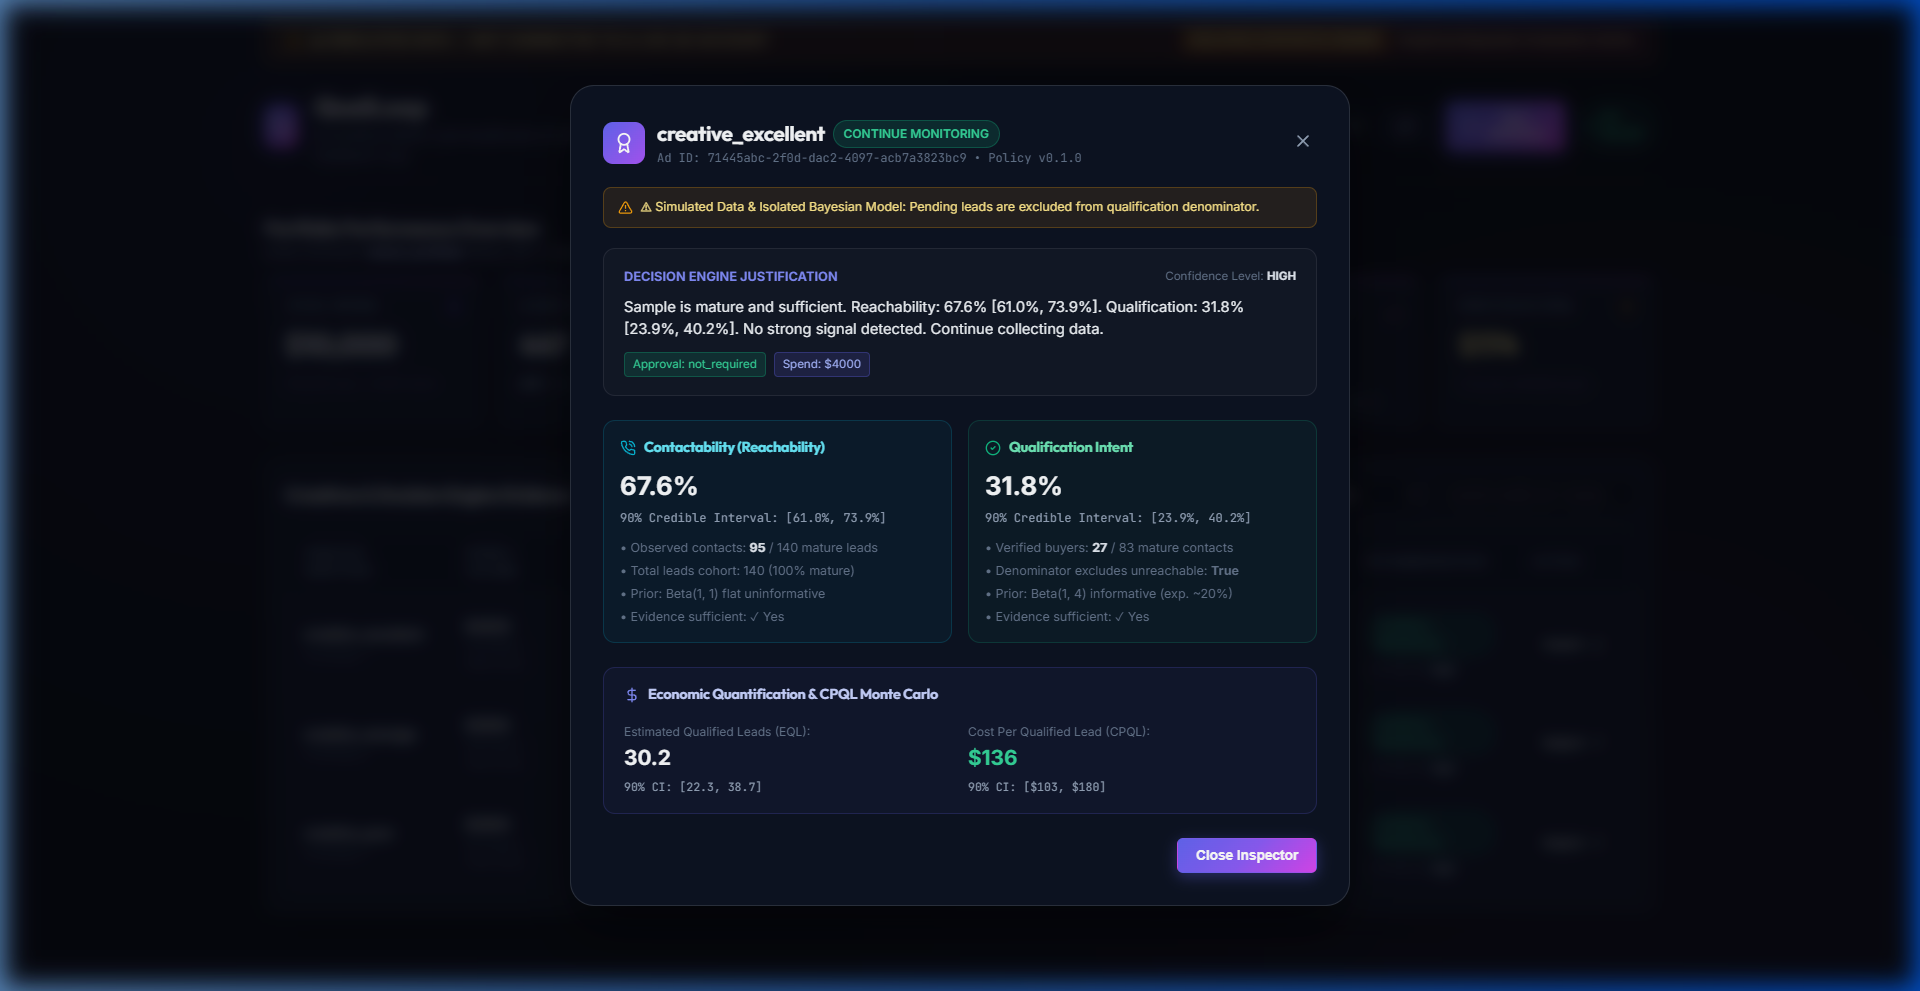
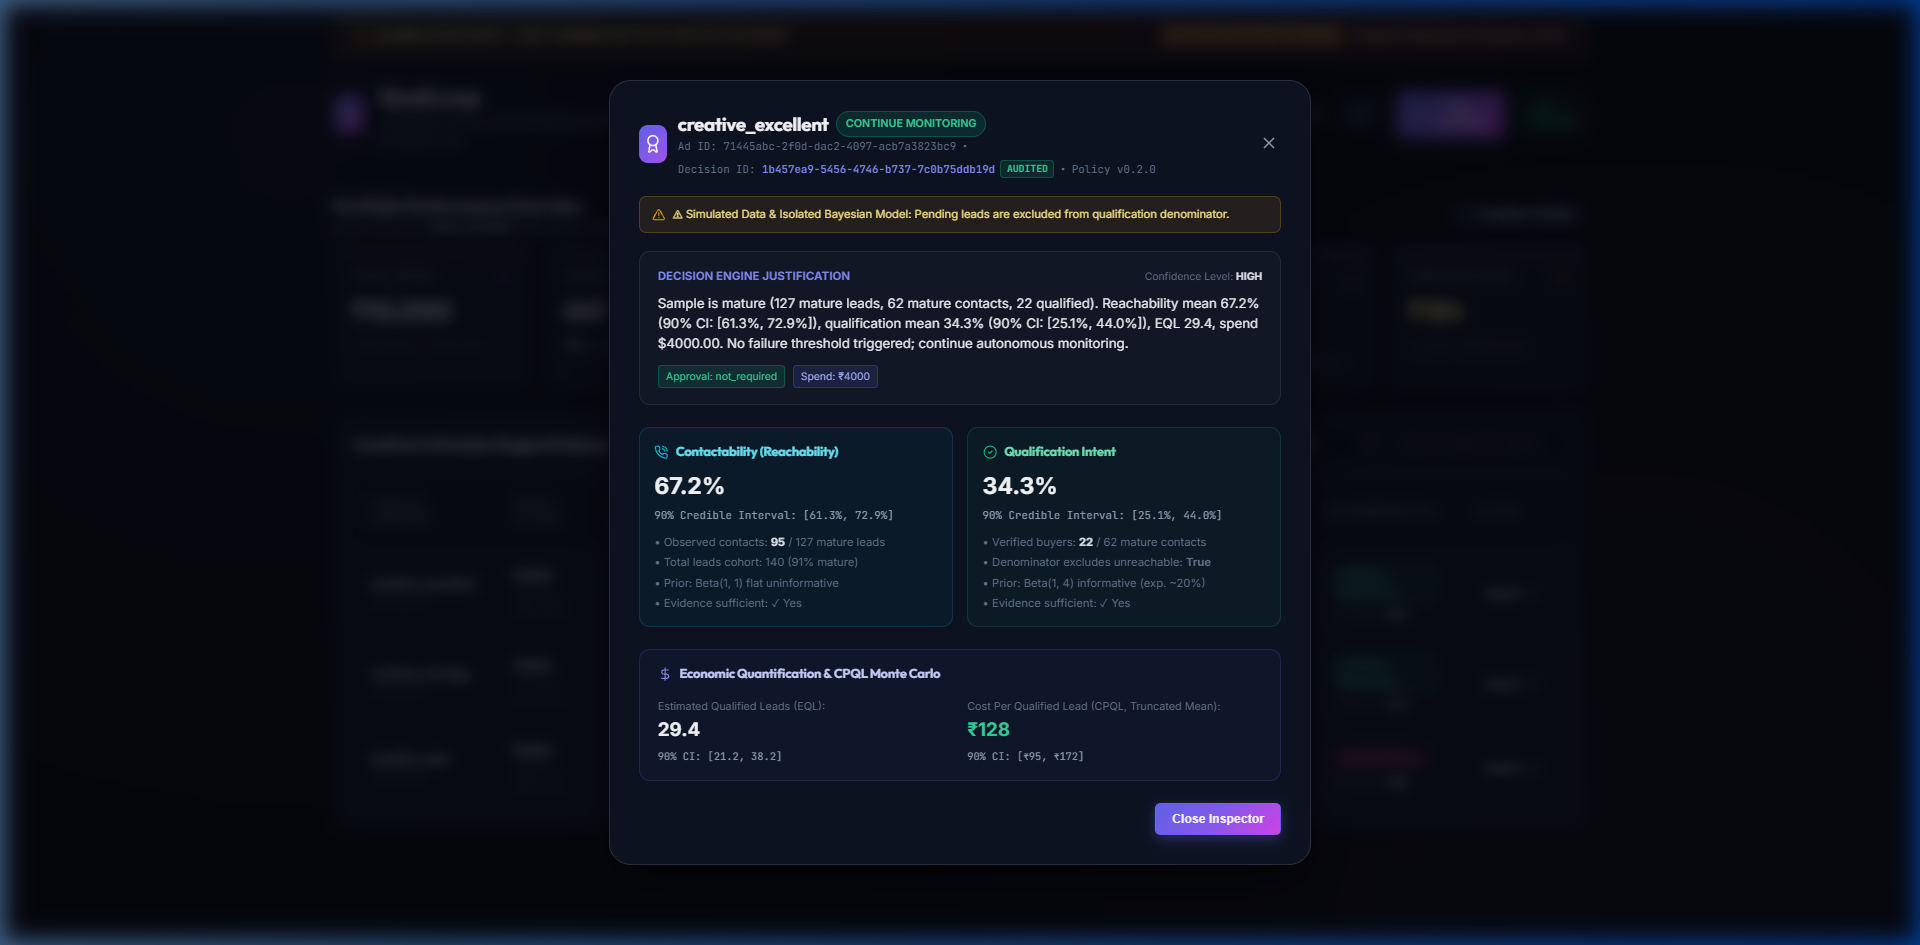
docs(media): regenerate current build dashboard screenshots and update video link placeholder

diff --git a/frontend/src/components/AdDetailModal.tsx b/frontend/src/components/AdDetailModal.tsx
@@ -138,7 +138,7 @@ export const AdDetailModal: React.FC<AdDetailModalProps> = ({ adAnalysis, onClos
               Approval: {dec.approval_status}
             </span>
             <span style={{ fontSize: '0.72rem', background: 'rgba(99, 102, 241, 0.15)', color: '#a5b4fc', padding: '3px 8px', borderRadius: '4px', border: '1px solid rgba(99, 102, 241, 0.3)' }}>
-              Spend: ${adv.spend.toFixed(0)}
+              Spend: ₹{adv.spend.toFixed(0)}
             </span>
           </div>
         </div>
@@ -217,12 +217,12 @@ export const AdDetailModal: React.FC<AdDetailModalProps> = ({ adAnalysis, onClos
             <div>
               <span style={{ fontSize: '0.75rem', color: 'var(--text-dim)' }}>Cost Per Qualified Lead (CPQL, Truncated Mean):</span>
               <div style={{ fontSize: '1.3rem', fontWeight: 700, color: est.cpql_unstable ? '#f59e0b' : '#34d399' }}>
-                {est.cpql_unstable || est.cpql_mean === null ? 'Unstable' : `$${est.cpql_mean.toFixed(0)}`}
+                {est.cpql_unstable || est.cpql_mean === null ? 'Unstable' : `₹${est.cpql_mean.toFixed(0)}`}
               </div>
               <span className="mono" style={{ fontSize: '0.72rem', color: 'var(--text-muted)' }}>
                 {est.cpql_unstable
                   ? `Zero-EQL draw fraction: ${(est.zero_eql_fraction * 100).toFixed(0)}%`
-                  : `90% CI: [$${est.cpql_ci_low?.toFixed(0)}, $${est.cpql_ci_high?.toFixed(0)}]`}
+                  : `90% CI: [₹${est.cpql_ci_low?.toFixed(0)}, ₹${est.cpql_ci_high?.toFixed(0)}]`}
               </span>
             </div>
           </div>

diff --git a/frontend/src/components/CampaignAdTable.tsx b/frontend/src/components/CampaignAdTable.tsx
@@ -166,7 +166,7 @@ export const CampaignAdTable: React.FC<CampaignAdTableProps> = ({ campaigns, onS
 
                     <td>
                       <div style={{ display: 'flex', flexDirection: 'column', gap: '2px' }}>
-                        <span style={{ fontWeight: 600 }}>${adv.spend.toFixed(0)}</span>
+                        <span style={{ fontWeight: 600 }}>₹{adv.spend.toFixed(0)}</span>
                         <span style={{ fontSize: '0.72rem', color: 'var(--text-dim)' }}>
                           {est.n_leads} leads &bull; {adv.clicks} clicks
                         </span>
@@ -250,7 +250,7 @@ export const CampaignAdTable: React.FC<CampaignAdTableProps> = ({ campaigns, onS
                           </span>
                         ) : (
                           <>
-                            <span style={{ fontWeight: 600 }}>${est.cpql_mean.toFixed(0)}</span>
+                            <span style={{ fontWeight: 600 }}>₹{est.cpql_mean.toFixed(0)}</span>
                             <span className="mono" style={{ fontSize: '0.7rem', color: 'var(--text-dim)' }}>
                               [{est.cpql_ci_low?.toFixed(0)}, {est.cpql_ci_high?.toFixed(0)}]
                             </span>

diff --git a/frontend/src/components/PortfolioOverview.tsx b/frontend/src/components/PortfolioOverview.tsx
@@ -136,7 +136,7 @@ export const PortfolioOverview: React.FC<PortfolioOverviewProps> = ({
             <span>Total Spend</span>
             <DollarSign size={16} color="#6366f1" />
           </div>
-          <div className="kpi-value">${totalSpend.toLocaleString(undefined, { minimumFractionDigits: 0, maximumFractionDigits: 0 })}</div>
+          <div className="kpi-value">₹{totalSpend.toLocaleString(undefined, { minimumFractionDigits: 0, maximumFractionDigits: 0 })}</div>
           <div className="kpi-sub">{totalImpressions.toLocaleString()} imp &bull; {totalClicks.toLocaleString()} clicks</div>
         </div>
 
@@ -196,7 +196,7 @@ export const PortfolioOverview: React.FC<PortfolioOverviewProps> = ({
             <DollarSign size={16} color="#f59e0b" />
           </div>
           <div className="kpi-value" style={{ color: portfolioCPQL ? '#fde68a' : 'var(--text-dim)' }}>
-            {portfolioCPQL ? `$${portfolioCPQL.toFixed(0)}` : 'Unstable'}
+            {portfolioCPQL ? `₹${portfolioCPQL.toFixed(0)}` : 'Unstable'}
           </div>
           <div className="kpi-sub">
             {portfolioCPQL ? 'Cost per verified buyer' : 'Zero or near-zero qualified leads'}

diff --git a/README.md b/README.md
@@ -29,7 +29,7 @@
 
 | Benchmark Lab | Interactive Demo Walkthrough |
 |:---:|:---:|
-| ![Benchmark Lab](docs/img/benchmark_lab.png) | [Watch Demo Walkthrough Video](docs/img/demo_walkthrough.webp) |
+| ![Benchmark Lab](docs/img/benchmark_lab.png) | [Watch Demo Walkthrough Video (Hosted MP4 Video Placeholder)](https://github.com/jyotirmya17/QualLoop/releases/tag/v0.2.0) |
 
 ---
 
@@ -530,9 +530,10 @@ The repository has been verified on Python 3.12 and Node.js 20. Setup requires t
    source venv/bin/activate
    ```
 
-3. Install backend dependencies:
+3. Install backend dependencies (in editable mode or via requirements):
    ```bash
-   pip install -r requirements.txt
+   pip install -e .
+   # or: pip install -r requirements.txt
    ```
 
 4. Configure local environment variables:
